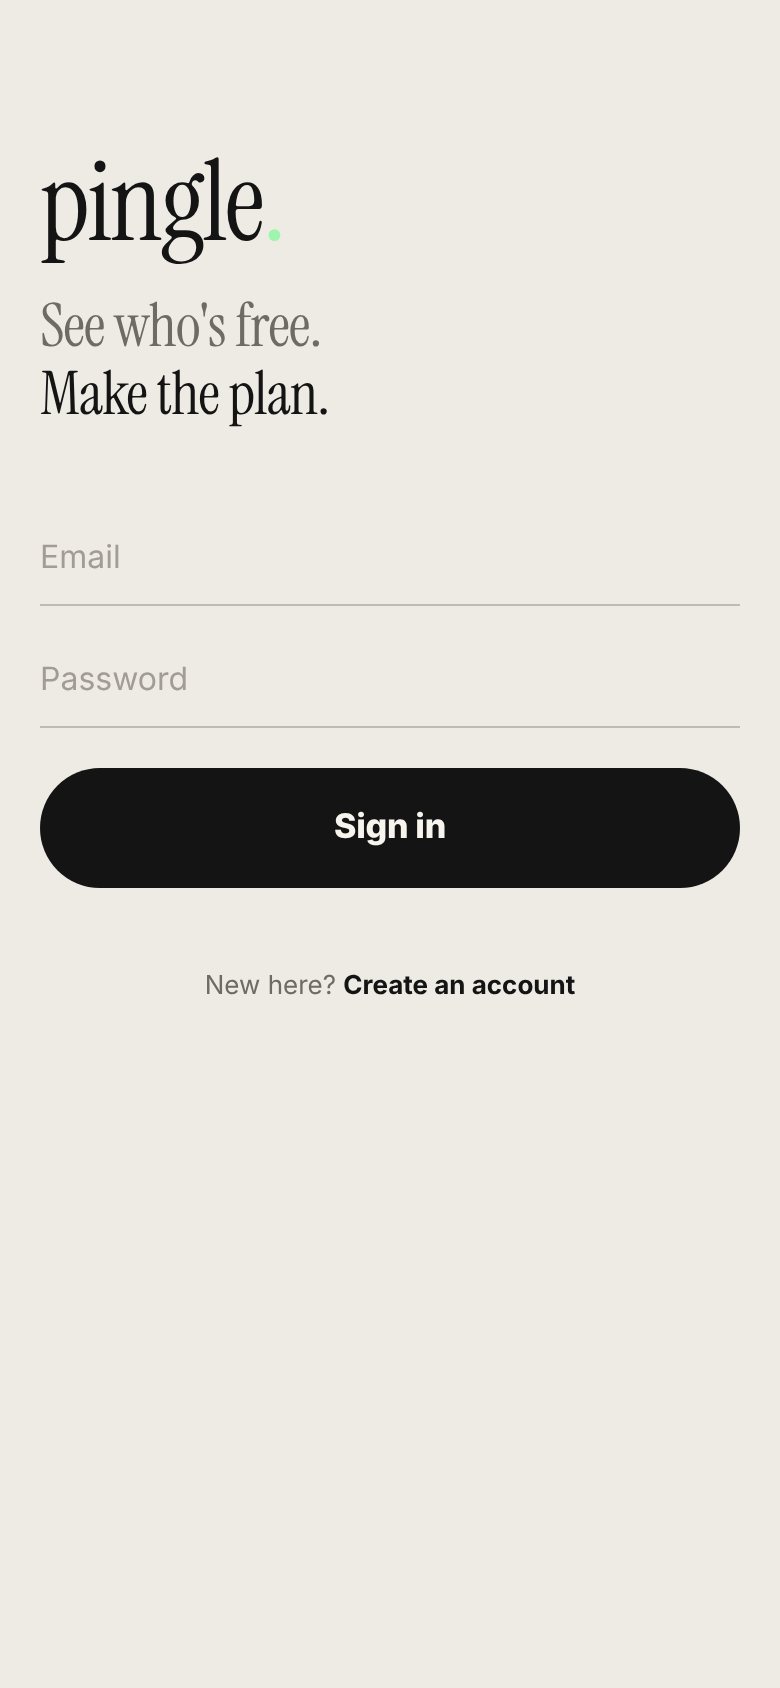
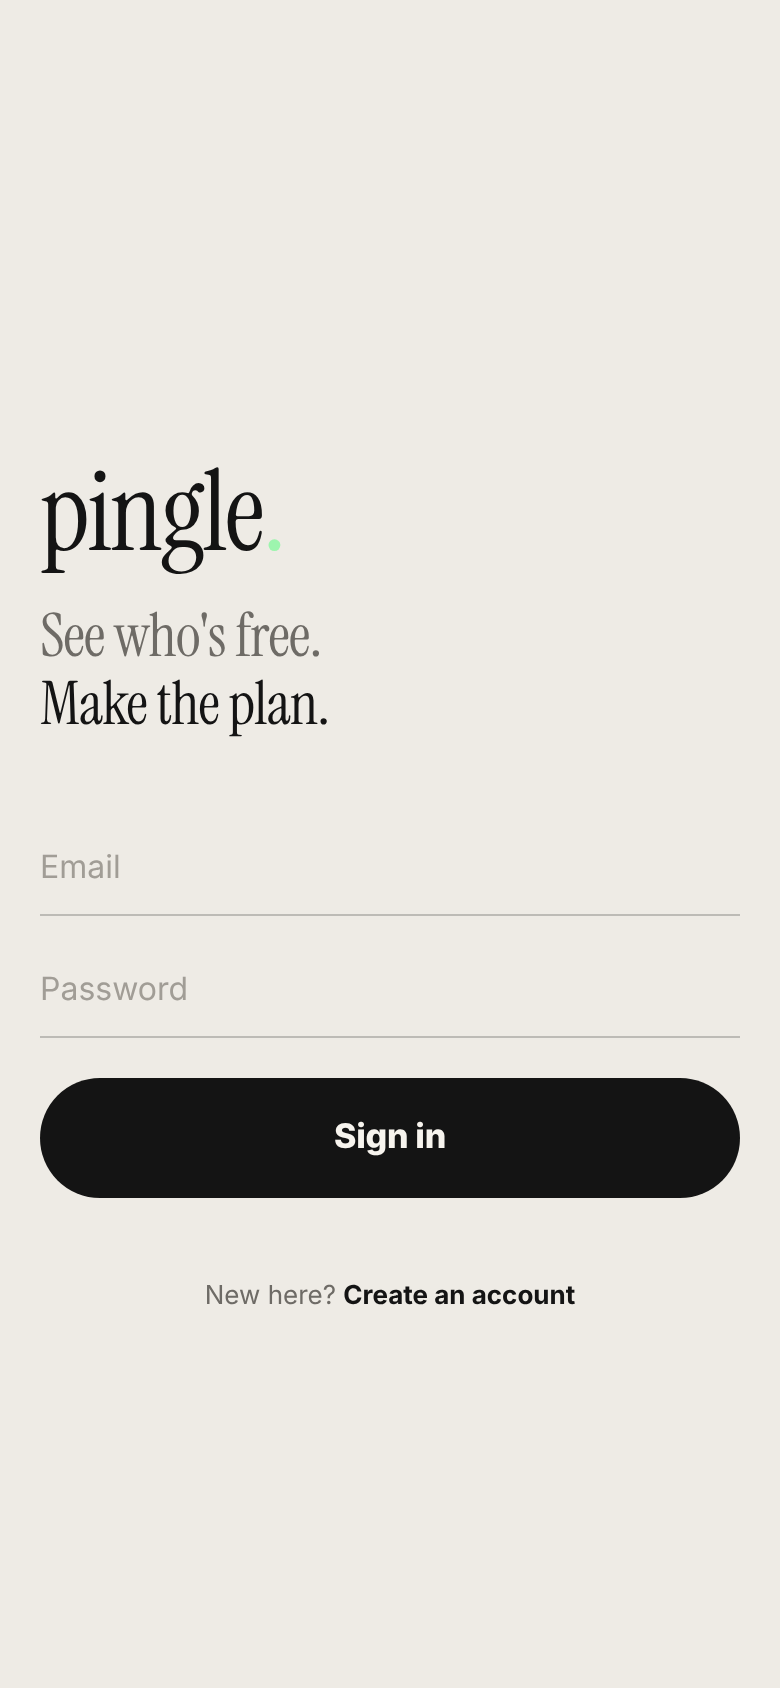
Center short screens vertically and add top breathing room
Claude-Session: https://claude.ai/code/session_01MVFsfL4Hs5Z7CcW6YM1JV8

diff --git a/src/components/ui.tsx b/src/components/ui.tsx
@@ -70,8 +70,11 @@ export function Screen({
   onRefresh,
   edges = ['top'],
   contentStyle,
+  center = true,
 }: {
   children: ReactNode;
+  /** Vertically center content that's shorter than the screen (default). */
+  center?: boolean;
   scroll?: boolean;
   refreshing?: boolean;
   onRefresh?: () => void;
@@ -83,7 +86,7 @@ export function Screen({
     <SafeAreaView edges={edges} style={styles.screen}>
       {scroll ? (
         <ScrollView
-          contentContainerStyle={{ paddingBottom: 64 }}
+          contentContainerStyle={[{ flexGrow: 1, paddingTop: 40, paddingBottom: 72 }, center && { justifyContent: 'center' }]}
           keyboardShouldPersistTaps="handled"
           indicatorStyle={isLight ? 'black' : 'white'}
           refreshControl={
@@ -92,7 +95,7 @@ export function Screen({
           {inner}
         </ScrollView>
       ) : (
-        inner
+        <View style={[{ flex: 1, paddingTop: 40, paddingBottom: 40 }, center && { justifyContent: 'center' }]}>{inner}</View>
       )}
     </SafeAreaView>
   );
